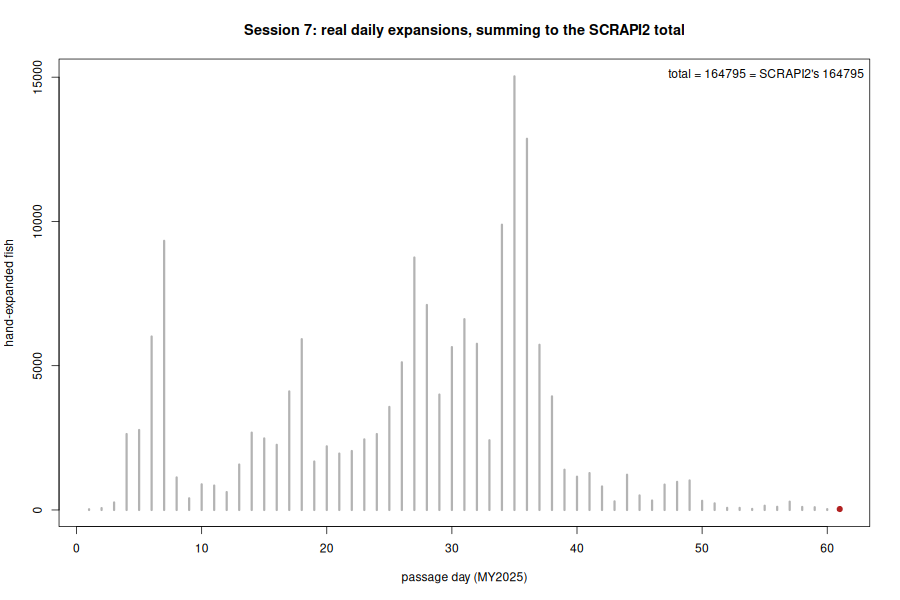
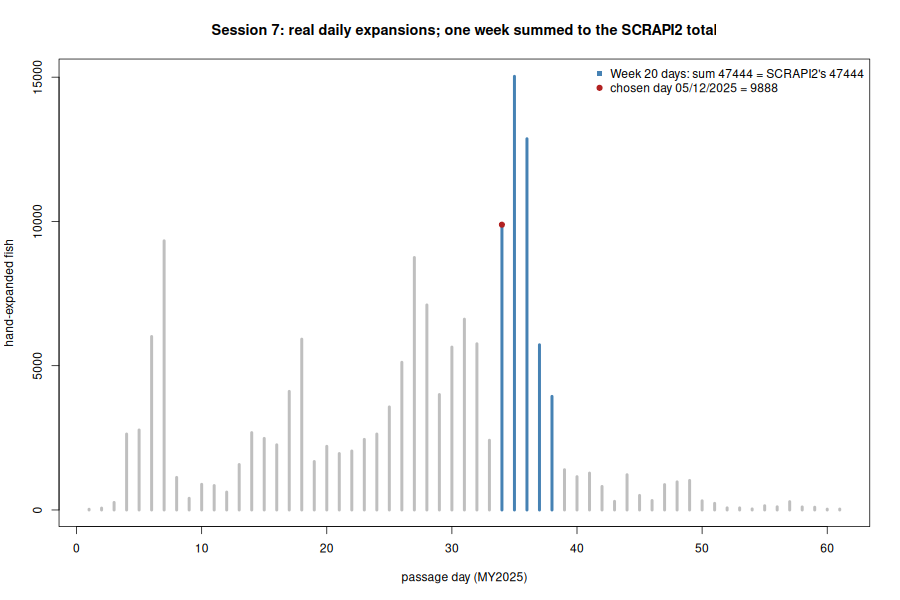
Session 7: mid-run demo day, honest wording; replace script-length rule (#10)
Session 7 (real data):
- Replace the Week-26 demo day (06/27/2025, SampleCount=1, ~32 fish on the
  last day, invisible against a run peaking near 15,000). Use a mid-run day,
  05/12/2025 in Week 20 with SampleCount=88 (~9888 fish), sum the hand
  expansions over its five-day week, and keep the equality check against
  SCRAPI2's weekly total (47444). The figure highlights the week and the day.
- Rewrite docs/session07_explain.md to state plainly that the hand formula and
  SCRAPI2.R:306 are the same arithmetic (line 325 prints
  round(tapply(pass$estimated, Week, sum))). It shows the machine has no magic;
  it does not independently verify SCRAPI2, and the old wording implied it did.
- Add a comment noting the out-parsing is coupled to SCRAPI2's print format
  (lines 325/327), since the returned list(CI, bootstrap) carries no weekly
  totals and text parsing is the only route. Parsing left as is.

Rules (PLAN.md, README.md):
- Delete the 80-line cap and the session 7/8 carve-out.
- Add: each session teaches one idea only (simulate, build by hand, recover,
  one figure, Locate); a second figure means a second session; inline
  single-use helpers; no defensive input checking. The one-minute rule stays.

Claude-Session: https://claude.ai/code/session_01R9nf2xJVtYWnBPezcTr4xS

Changed region(s): [[0.5289, 0.15, 0.6222, 0.87], [0.2178, 0.03, 0.8089, 0.06], [0.6533, 0.09, 0.9644, 0.18]]

diff --git a/docs/session07_explain.md b/docs/session07_explain.md
@@ -1,12 +1,15 @@
 How I would explain session 7 in three minutes
 
 Every number in the talk so far was simulated. This one is not: it is the real
-MY2025 steelhead run, 61 days of trap counts and 1074 fish. Production SCRAPI2 is a
-large program, but on any single day it does exactly what session 1 did: take the
-count and divide by the fraction seen. On 06/27/2025 that is 1 fish counted at a 10%
-sample rate and 31% guidance, giving 32 fish, and SCRAPI2 reports the same 32.
+MY2025 steelhead run, 61 days of trap counts and 1074 fish. Be clear about what this
+shows and what it does not: we did not independently verify SCRAPI2. We cannot, by
+hand. What we can show is that the weekly number SCRAPI2 prints is nothing more
+than the plug-in expansion, summed.
 
-Do that for every day and the daily expansions sum to 164795, which is exactly the
-total smolts SCRAPI2 prints, 164795. The whole production run is that one move applied
-day after day and then split into groups. Anyone in the room can check the day I
-picked with a calculator, and that is the point: the machine has no magic in it.
+Take 05/12/2025: 88 fish counted at a 5% sample rate and 18% guidance is that count
+over the fraction seen, about 9888 fish. Its week has 5 days; add their expansions
+and you get 47444. SCRAPI2 prints exactly 47444 for Week 20, because line for line it is
+the same division summed the same way: count over sample rate times guidance,
+summed by week and rounded (SCRAPI2.R line 306, printed at line 325). There is no
+separate model doing the counting and no magic in the machine; the whole run is
+this one division, repeated day after day and then grouped.

diff --git a/PLAN.md b/PLAN.md
@@ -227,9 +227,13 @@ this session selects and finishes figures already produced.
 
 ## Rules this repository holds itself to
 
-- Scripts stay short — about a screen, near 80 lines for the toy sessions — and
-  none takes more than a minute to run. The two real/production sessions (7 and 8)
-  run longer because they carry two full estimators or a production call.
+- Each session teaches one idea and one idea only: simulate from a known truth,
+  build the estimator by hand, recover it against that truth, show it in one
+  figure, and Locate it in the two production sources. If a session needs a second
+  figure to make its point, it is two sessions.
+- If a helper function is used once, inline it. No defensive input checking —
+  these are teaching scripts, not package code.
+- No script takes more than a minute to run.
 - No new session is added without deleting one. Tangents go to `BACKLOG.md`.
 - No banner comments (no `# =====`, no `# -----`). Plain comments only.
 - Every heading in every markdown file has real text. No empty or placeholder

diff --git a/README.md b/README.md
@@ -33,6 +33,8 @@ each item with one line saying why it was cut. Nothing was deleted.
 
 ## Ground rules
 
-Toy sessions stay near a screen (about 80 lines); the two real/production
-sessions run longer. No session over a minute to run. No banner comments. No
-placeholder headings. No dates — those get added by hand.
+Each session teaches one idea and one idea only: simulate, build the estimator by
+hand, recover against truth, one figure, Locate. A second figure means a second
+session. Single-use helpers are inlined; no defensive input checking, since these
+are teaching scripts, not package code. No session over a minute to run. No banner
+comments. No placeholder headings. No dates — those get added by hand.
